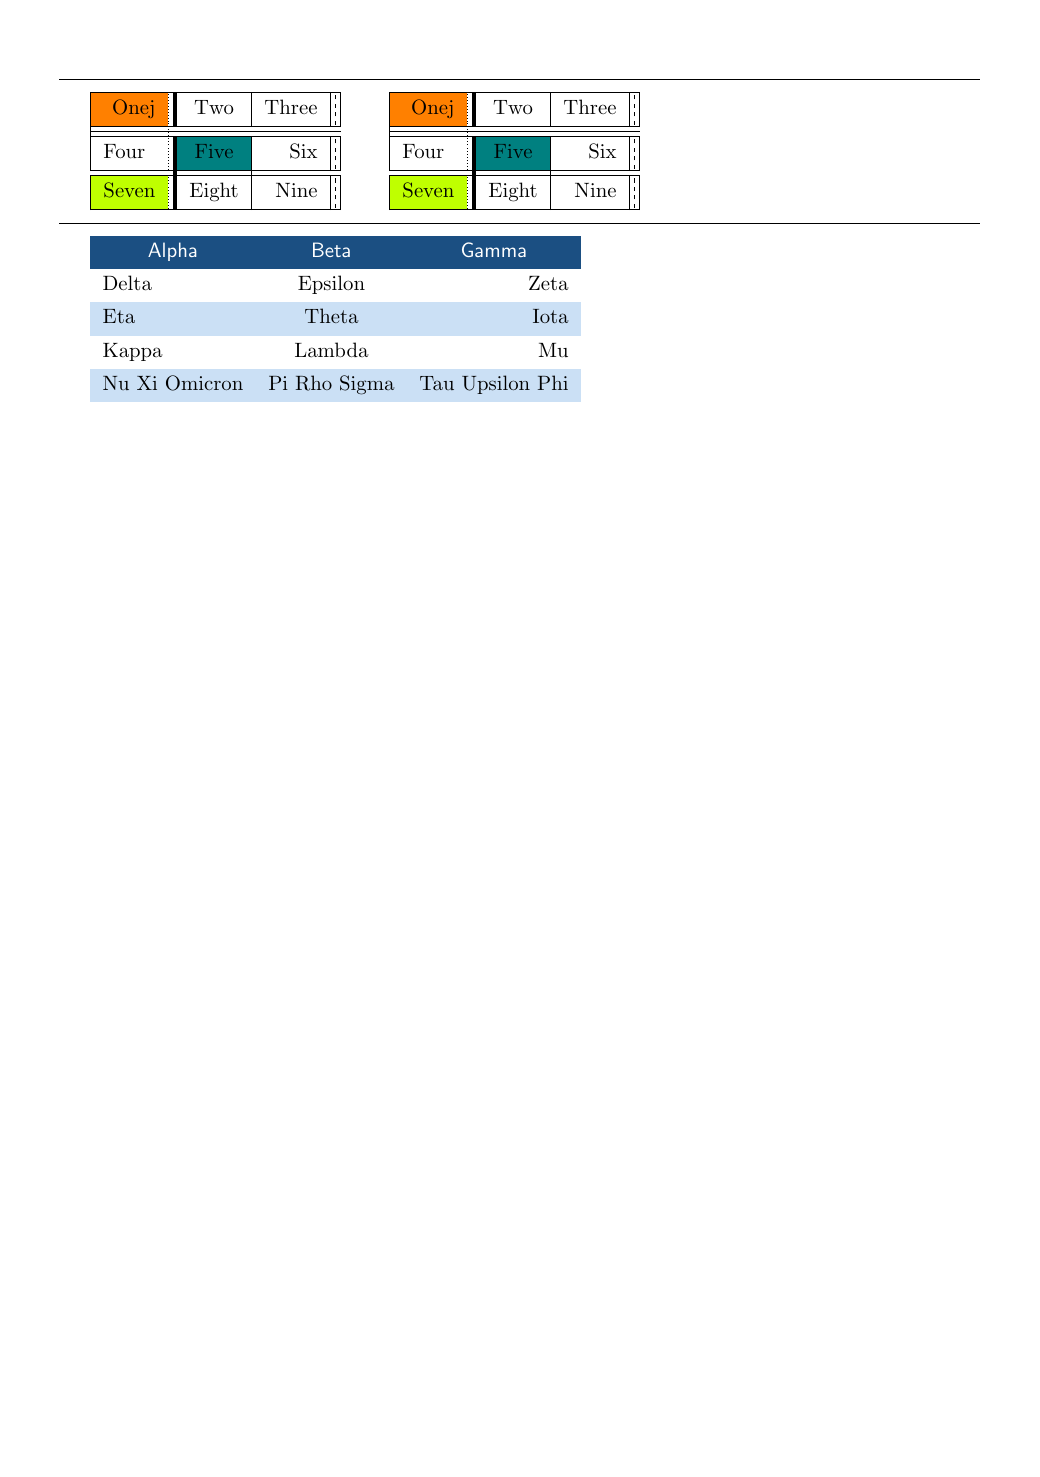
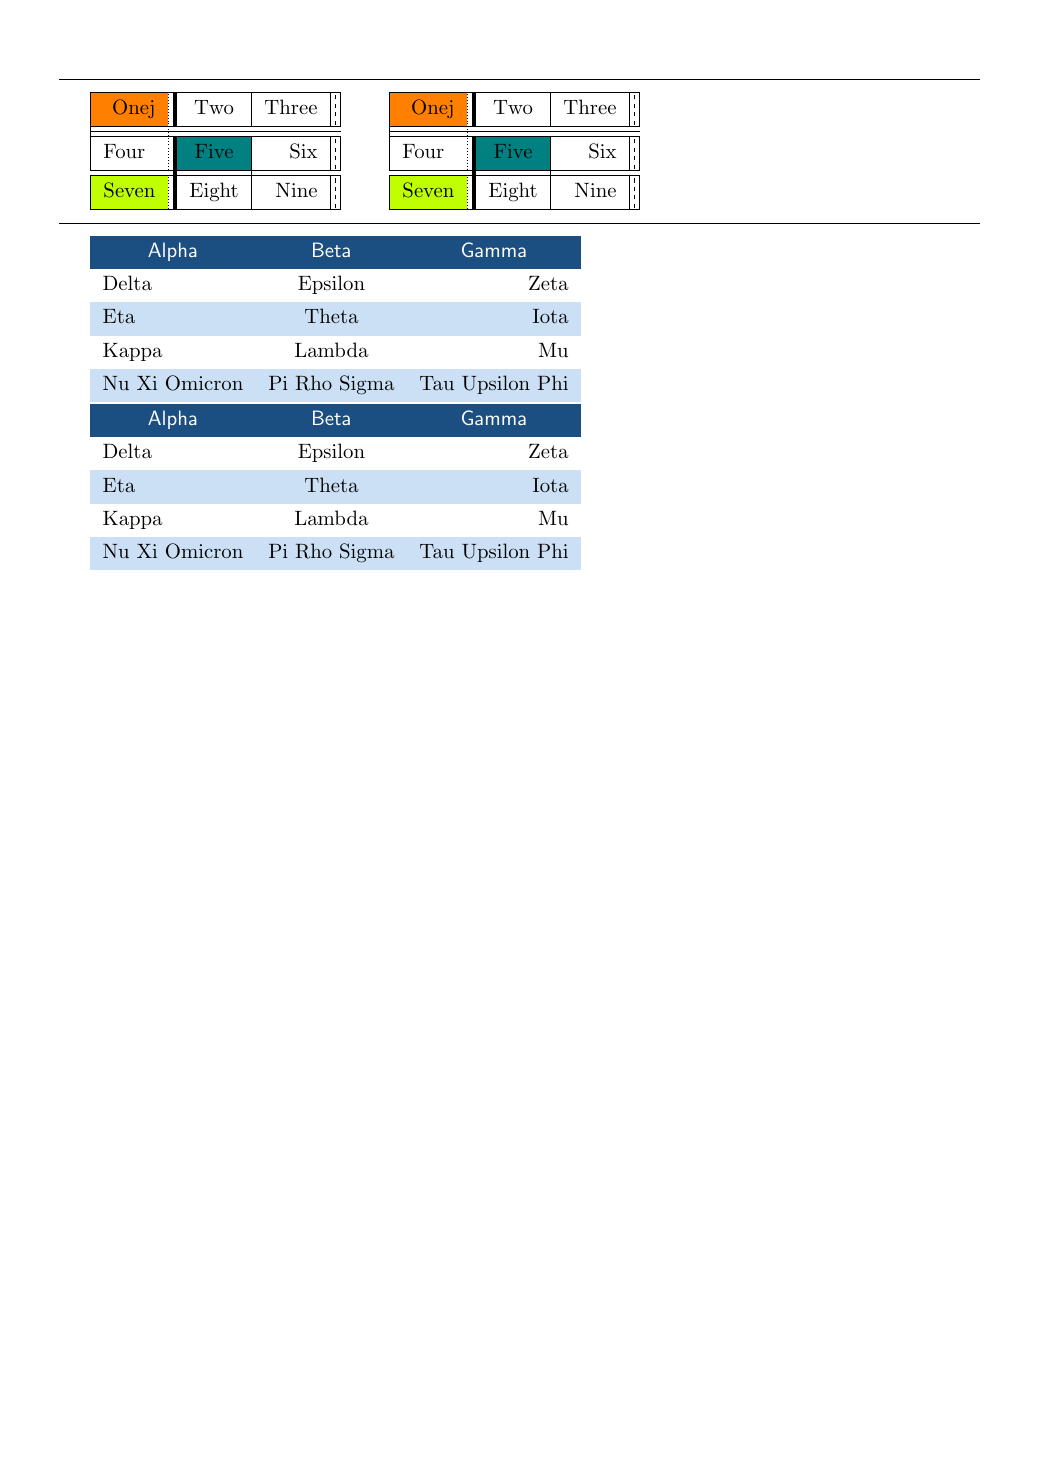
update test files for issue #36

Changed region(s): [[0.0615, 0.2492, 0.5846, 0.4049]]

diff --git a/testfiles/table-011.tex b/testfiles/table-011.tex
@@ -1,0 +1,117 @@
+\documentclass{article}
+\usepackage[b5paper,margin=1cm]{geometry}
+\pagestyle{empty}
+
+\input{regression-test}
+
+\usepackage{tabularray}
+\usepackage{array}
+\usepackage{xcolor}
+\usepackage{tabularx}
+\usepackage{enumitem}
+
+\SetTblrTracing{none}
+\SetTblrInner{rowsep=0pt}
+\UseTblrLibrary{varwidth}
+
+\setlength{\parindent}{0pt}
+
+\begin{document}
+
+\hrule
+
+%% Make PK fonts before starting test
+\begin{itemize}
+  \item text 1
+  \item text 2
+\end{itemize}
+
+\START
+
+\vspace{2em}
+
+% See issue #36
+\BEGINTEST{testing itemize environment with measure=vbox}
+\begin{tabular}{|p{1.8cm}|l|}
+  \hline
+  text & text \\
+  \hline
+  \begin{itemize}
+    \item text 1
+    \item text 2
+  \end{itemize} & text 3 \\
+  \hline
+\end{tabular}
+\qquad
+\begin{tblr}{
+  colspec = {ll}, hlines, vlines,
+  measure = vbox,
+}
+  text & text \\
+  \begin{itemize}
+    \item text 1
+    \item text 2
+  \end{itemize} & text 3 \\
+\end{tblr}
+\ENDTEST
+
+\bigskip\hrule\bigskip
+
+% See issue #36
+\BEGINTEST{testing itemize environment with measure=vbox}
+\begin{tabularx}{0.5\textwidth}{|X|l|}
+  \hline
+  text & text \\
+  \hline
+  \begin{itemize}[topsep=0pt,parsep=0pt]
+    \item abc def abc def abc def abc def
+          abc def abc def abc def abc def
+          abc def abc def abc def abc def
+    \item abc def abc def abc def abc def
+          abc def abc def abc def abc def
+          abc def abc def abc def abc def\strut
+  \end{itemize}
+  & text 3 \\
+  \hline
+  abc def abc def abc def abc def
+  abc def abc def abc def abc def
+  abc def abc def abc def abc def
+  & xyz \\
+  \hline
+\end{tabularx}%
+\begin{tblr}{
+  colspec = {X[j,t]l}, width = 0.5\textwidth, hlines, vlines,
+  measure = vbox,
+}
+  text & text\\
+  \noindent
+  \begin{itemize}[topsep=0pt,parsep=0pt]
+    \item abc def abc def abc def abc def
+          abc def abc def abc def abc def
+          abc def abc def abc def abc def
+    \item abc def abc def abc def abc def
+          abc def abc def abc def abc def
+          abc def abc def abc def abc def\strut
+  \end{itemize}
+  & text 3 \\
+  abc def abc def abc def abc def
+  abc def abc def abc def abc def
+  abc def abc def abc def abc def
+  & xyz \\
+\end{tblr}
+\ENDTEST
+
+\bigskip\hrule\bigskip
+
+% See issue #36
+\BEGINTEST{testing \color command with measure=vbox}
+\begin{tblr}{
+  colspec = {ll}, hlines, vlines,
+  measure = vbox,
+}
+  \color{red3}Hello      & \leavevmode\color{red3}Hello \\
+  Hello\color{red3}Hello & Hello{\color{red3}Hello}Hello
+\end{tblr}
+\ENDTEST
+
+\end{document}

diff --git a/testfiles/color-001.tex b/testfiles/color-001.tex
@@ -10,6 +10,7 @@
 \usepackage{array}
 
 \SetTblrTracing{none}
+\UseTblrLibrary{varwidth}
 
 \begin{document}
 
@@ -40,12 +41,29 @@ Four  & \SetCell{teal}Five  &   Six \\
 
 \medskip\hrule\medskip
 
-%% Issue 2: Setting fonts?
-\BEGINTEST{cell foreground and font}
+%% Issue #2: Setting fonts?
+\BEGINTEST{cell foreground and font with measure=hbox}
 \begin{tblr}{
  colspec  = {lcr},
  row{odd} = {bg=azure9},
  row{1}   = {c,bg=azure3,fg=white,font=\sffamily},
+ measure  = hbox,
+}
+ Alpha & Beta    & Gamma \\
+ Delta & Epsilon & Zeta \\
+ Eta   & Theta   & Iota \\
+ Kappa & Lambda  & Mu \\
+ Nu Xi Omicron & Pi Rho Sigma & Tau Upsilon Phi \\
+\end{tblr}
+\ENDTEST
+
+%% Issue #36: \color inside varwidth
+\BEGINTEST{cell foreground and font with measure=vbox}
+\begin{tblr}{
+ colspec  = {lcr},
+ row{odd} = {bg=azure9},
+ row{1}   = {c,bg=azure3,fg=white,font=\sffamily},
+ measure  = vbox,
 }
  Alpha & Beta    & Gamma \\
  Delta & Epsilon & Zeta \\

diff --git a/testfiles/verb-001.tex b/testfiles/verb-001.tex
@@ -8,14 +8,22 @@
 \usepackage{tabularray}
 
 \SetTblrTracing{none}
+\UseTblrLibrary{varwidth}
 
 \begin{document}
 
 \START
 \hrule\bigskip
 
-\BEGINTEST{testing \verb command}
-\begin{tblr}{hlines,verb}
+\BEGINTEST{testing \verb command with measure=hbox}
+\begin{tblr}{colspec={lll},hlines,verb,measure=hbox}
+  20 & 30 & \verb!\hello{world}!40 \\
+  50 & \verb!\hello!60 & 70 \\
+\end{tblr}
+\ENDTEST
+
+\BEGINTEST{testing \verb command with measure=vbox}
+\begin{tblr}{colspec={lll},hlines,verb,measure=vbox}
   20 & 30 & \verb!\hello{world}!40 \\
   50 & \verb!\hello!60 & 70 \\
 \end{tblr}

diff --git a/testfiles/cell-009.tex b/testfiles/cell-009.tex
@@ -8,6 +8,7 @@
 \usepackage{tabularray}
 
 \SetTblrTracing{none}
+\UseTblrLibrary{varwidth}
 
 \ExplSyntaxOn
 \let \replicate = \prg_replicate:nn

diff --git a/testfiles/cell-008.tex b/testfiles/cell-008.tex
@@ -8,6 +8,7 @@
 \usepackage{array}
 
 \SetTblrTracing{none}
+\UseTblrLibrary{varwidth}
 
 \ExplSyntaxOn
 \let \replicate = \prg_replicate:nn

diff --git a/testfiles/library-001.tex b/testfiles/library-001.tex
@@ -9,6 +9,7 @@
 \usepackage{booktabs}
 
 \SetTblrTracing{none}
+\UseTblrLibrary{varwidth}
 \UseTblrLibrary{booktabs}
 
 \begin{document}

diff --git a/testfiles/long-002.tex b/testfiles/long-002.tex
@@ -12,6 +12,7 @@
 \usepackage{lmodern} % avoid using ec font
 
 \SetTblrTracing{none}
+\UseTblrLibrary{varwidth}
 
 \begin{document}
 

diff --git a/testfiles/library-003.tex b/testfiles/library-003.tex
@@ -9,6 +9,7 @@
 \usepackage{xcolor}
 
 \SetTblrTracing{none}
+\UseTblrLibrary{varwidth}
 \UseTblrLibrary{siunitx}
 
 \begin{document}

diff --git a/testfiles/library-002.tex b/testfiles/library-002.tex
@@ -8,6 +8,7 @@
 \usepackage{array}
 
 \SetTblrTracing{none}
+\UseTblrLibrary{varwidth}
 \UseTblrLibrary{diagbox}
 
 \begin{document}

diff --git a/testfiles/library-004.tex b/testfiles/library-004.tex
@@ -8,6 +8,7 @@
 \usepackage{array}
 
 \SetTblrTracing{none}
+\UseTblrLibrary{varwidth}
 \UseTblrLibrary{siunitx}
 
 \begin{document}

diff --git a/testfiles/library-005.tex b/testfiles/library-005.tex
@@ -12,6 +12,7 @@
 \usepackage{array,multirow,booktabs}
 
 \SetTblrTracing{none}
+\UseTblrLibrary{varwidth}
 
 \begin{document}
 

diff --git a/testfiles/long-001.tex b/testfiles/long-001.tex
@@ -13,6 +13,7 @@
 \hypersetup{colorlinks}
 
 \SetTblrTracing{none}
+\UseTblrLibrary{varwidth}
 
 \begin{document}
 
